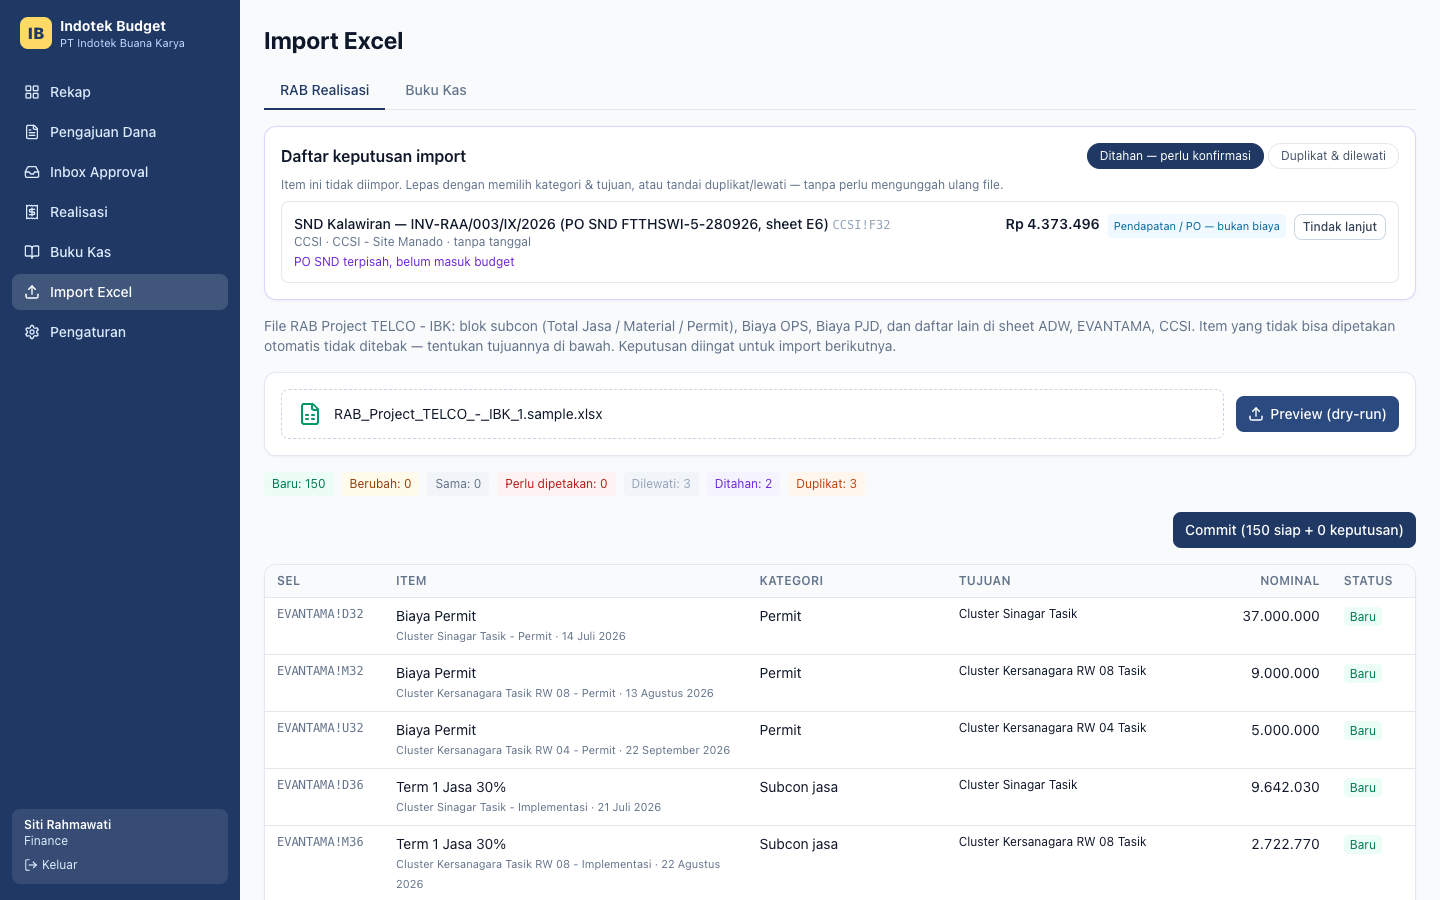
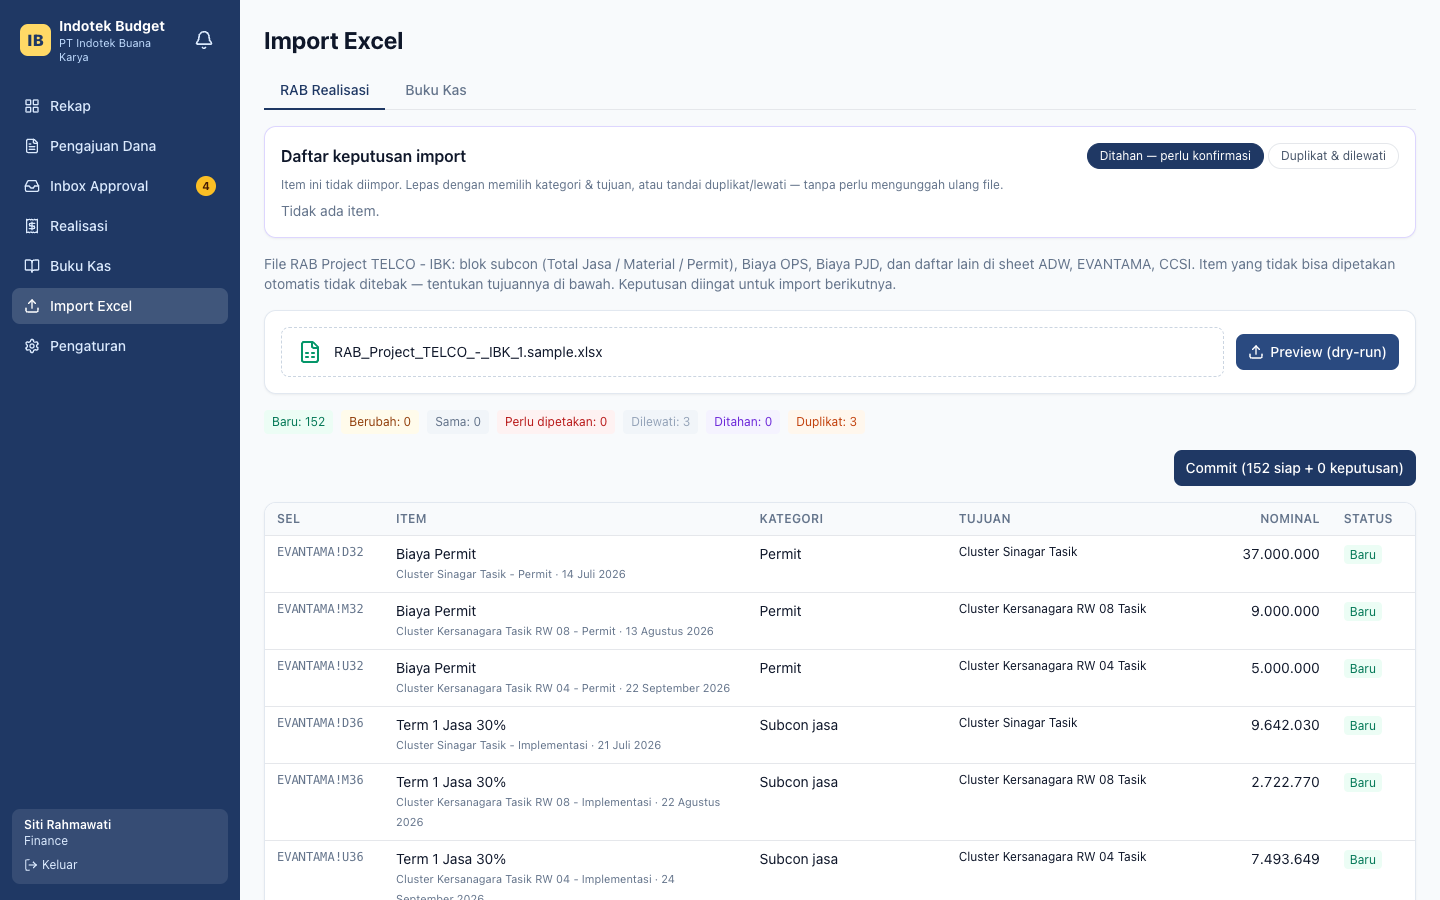
docs(2.3): ACCEPTANCE P, CHANGELOG 2.3 + laporan Rekap ulang; script import --po-adjustments

diff --git a/apps/api/scripts/import-rab.ts b/apps/api/scripts/import-rab.ts
@@ -1,5 +1,6 @@
 /* Import realisasi dari file RAB memakai aturan pemetaan default, lalu cetak laporan per project.
- * Pemakaian: npx ts-node --transpile-only scripts/import-rab.ts <file.xlsx> [--dry-run]
+ * Pemakaian: npx ts-node --transpile-only scripts/import-rab.ts <file.xlsx> [--dry-run] [--po-adjustments]
+ *   --po-adjustments : juga import baris "Deduction Termin 1 + Addwork" sebagai PO ADDWORK/DEDUCTION (preview dulu, lalu commit)
  */
 import { PrismaClient } from '@prisma/client';
 import { readFile } from 'node:fs/promises';
@@ -10,6 +11,8 @@ import { ExpenseSupportService } from '../src/realization/expense-support.servic
 import { RabImporter } from '../src/import/rab-importer';
 import { seedDefaultRabRules } from '../src/import/default-rab-rules';
 import { clusterCalcInput } from '../src/budget/budget.mapper';
+import { PoAdjustImporter } from '../src/import/po-adjust-importer';
+import { computeOverruns } from '../src/notifications/overrun';
 import type { PrismaService } from '../src/prisma/prisma.service';
 
 async function main() {
@@ -29,6 +32,19 @@ async function main() {
   const parsed = await importer.parse(await readFile(file));
   const result = dryRun ? { created: 0, updated: 0, held: 0, preview: await importer.preview(parsed) } : await importer.commit(parsed, {}, admin?.id ?? null);
   console.log(`${dryRun ? 'DRY-RUN' : 'COMMIT'}: dibuat ${result.created}, diperbarui ${result.updated}, ditahan ${result.held}`);
+
+  if (process.argv.includes('--po-adjustments')) {
+    const adj = new PoAdjustImporter(prisma, audit);
+    const pv = await adj.preview(parsed);
+    console.log(`\n=== Penyesuaian PO (Deduction Termin 1 + Addwork) — preview: ${JSON.stringify(pv.summary)}`);
+    for (const i of pv.items) console.log(`   ${i.status.padEnd(9)} ${i.key.padEnd(12)} ${i.kind.padEnd(9)} Rp ${formatAngka(i.amount).padStart(11)}  ${i.clusterName ?? `(blok tidak cocok: ${i.blockTitle})`}  [${i.source} · ${i.totalFormula}]`);
+    for (const c of pv.clusters) console.log(`   ${c.clusterName}: nilai PO implementasi Rp ${formatAngka(c.nilaiPoImplNow)} → Rp ${formatAngka(c.nilaiPoImplAfter)}`);
+    if (!dryRun) {
+      const r = await adj.commit(parsed, admin?.id ?? null);
+      console.log(`   COMMIT: PO baru ${r.created}, diperbarui ${r.updated}`);
+    }
+  }
+  const marginPermitRows: string[] = [];
   const rekap: string[] = [];
 
   for (const sheet of result.preview.sheets) {
@@ -67,7 +83,13 @@ async function main() {
     for (const r of rows.slice(0, 5)) console.log(`   ${formatPersen(r.pct.toString(), 1).padStart(7)}  ${r.name}  (Rp ${formatAngka(r.realisasi.toString())} / ${formatAngka(r.budget.toString())})`);
 
     // profit proyeksi (kalkulasi budget) vs profit realisasi (pembayaran bruto PAID − realisasi terverifikasi)
-    const proj = calcProjectTotal(clusters.map((c) => calcCluster(clusterCalcInput(c, setting))));
+    const results = clusters.map((c) => calcCluster(clusterCalcInput(c, setting)));
+    const proj = calcProjectTotal(results);
+    clusters.forEach((c, i) => {
+      if (!results[i].nilaiPoPermit.isZero() || !results[i].permit.amount.isZero()) {
+        marginPermitRows.push(`| ${sheet.projectCode} | ${c.name} | ${formatAngka(moneyStr(results[i].nilaiPoPermit))} | ${formatAngka(moneyStr(results[i].permit.amount))} | ${formatAngka(moneyStr(results[i].marginPermit))} |`);
+      }
+    });
     const payments = await prisma.clientPayment.findMany({ where: { cluster: { projectId: sheet.projectId } } });
     const p = calcRealizedProfit(
       payments.map((x) => ({ status: x.status, amount: x.amount.toString(), paidAmount: x.paidAmount?.toString() ?? null })),
@@ -75,15 +97,22 @@ async function main() {
     );
     rekap.push(
       `| ${sheet.projectCode} | ${formatAngka(moneyStr(proj.nilaiProyek))} | ${formatAngka(moneyStr(proj.profit))} | ${formatPersen(proj.margin.toString())} | ` +
-        `${formatAngka(moneyStr(p.pembayaranBruto))} | ${formatAngka(moneyStr(p.realisasiBiaya))} | ${formatAngka(moneyStr(p.profitRealisasi))} |`,
+        `${formatAngka(moneyStr(p.pembayaranBruto))} | ${formatAngka(moneyStr(p.realisasiBiaya))} | ${formatAngka(moneyStr(p.profitRealisasi))} | ${formatAngka(moneyStr(proj.marginPermit))} |`,
     );
   }
 
-  console.log(`\n=== Rekap profit proyeksi vs realisasi${retArg ? ` (preview retensiAsCost=${retArg})` : ''}`);
-  console.log('| Project | Nilai proyek | Profit proyeksi | Margin | Pembayaran klien PAID (bruto) | Realisasi biaya | Profit realisasi |');
+  const g = await settings.effective(null, ps);
+  console.log(`\n=== Rekap profit proyeksi vs realisasi (retensiAsCost=${retArg ?? g.retensiAsCost}${retArg ? ', preview' : ', setting tersimpan'})`);
+  console.log('| Project | Nilai proyek | Profit proyeksi | Margin | Pembayaran klien PAID (bruto) | Realisasi biaya | Profit realisasi | Margin permit |');
   for (const r of rekap) console.log(r);
+  console.log('\n=== Margin permit per cluster');
+  console.log('| Project | Cluster | Nilai PO permit | Biaya permit | Margin permit |');
+  for (const r of marginPermitRows) console.log(r);
+  const over = await computeOverruns(prisma);
+  console.log(`\n=== Cluster over budget (ambang Setting): ${over.length} pos`);
+  for (const o of over) console.log(`   ${o.projectCode} ${o.clusterName} — ${o.label}: Rp ${formatAngka(o.realisasi)} / ${formatAngka(o.budget)}`);
 
-  console.log('\n=== Daftar final item ditahan');
+  console.log(`\n=== Daftar final item ditahan: ${await prisma.importHeldItem.count({ where: { status: 'HELD' } })} item`);
   const heldRows = await prisma.importHeldItem.findMany({ where: { status: 'HELD' }, orderBy: [{ sheet: 'asc' }, { cell: 'asc' }] });
   for (const h of heldRows) console.log(`   ${h.sheet}!${h.cell} [${h.kind}] ${h.label} Rp ${formatAngka(h.amount.toString())} — ${h.note ?? ''}`);
   const dismissedRows = await prisma.importHeldItem.findMany({ where: { status: 'DISMISSED' }, orderBy: [{ sheet: 'asc' }, { cell: 'asc' }] });

diff --git a/docs/CHANGELOG.md b/docs/CHANGELOG.md
@@ -1,5 +1,108 @@
 # Changelog
 
+## Fase 2.3 — PO per cluster, margin permit, retensi = piutang, proteksi import, notifikasi (14 Oktober 2026)
+
+### Status verifikasi
+
+| Pemeriksaan | Hasil |
+|---|---|
+| Unit test shared | 123 lulus (baru: PO turunan, margin permit, acuan default 961.865,20, penyesuaian PO ADW) |
+| Test API (Jest + PostgreSQL) | 87 lulus (baru: `phase23.e2e-spec.ts`) |
+| Test web | 9 lulus |
+| Playwright e2e | 14 lulus |
+| `pnpm lint`, `pnpm typecheck`, `pnpm build` | bersih |
+| DB Docker | patch 2.3 terpasang; import RAB ulang 0 baru / 0 berubah; 8 PO penyesuaian ADW; **item ditahan = 0** |
+
+### Keputusan yang diterapkan
+
+Patch data sekali jalan **`2.3-po-permit-semarang-fee-marketing`** (DataPatch, dipanggil dari seed, semua perubahan diaudit). Angka acuan di ACCEPTANCE bagian P.
+
+1. **Margin permit** per cluster = nilaiPoPermit − permitCost − pajak atas permit − interest atas permitCost. Tampil di ringkasan cluster, grid project, dan kolom Rekap (merah bila negatif). Rumus pajak/interest utama tidak berubah.
+2. **Permit Semarang** → diganti keputusan 9 (lihat bawah).
+3. **Model `ClusterPo`** (IMPLEMENTASI / PERMIT / SND / ADDWORK / DEDUCTION, no. & tanggal PO, nilai, biaya pass-through, catatan).
+   - nilaiPoImpl, nilaiPoPermit, permitCost sekarang **diturunkan** dari PO dan read-only di form/grid (PATCH langsung → 400).
+   - Migrasi: setiap cluster mendapat PO IMPLEMENTASI (+ PERMIT bila ada) dari nilai lama; nomor PO diambil dari info cluster; termin lama dikaitkan ke PO-nya.
+   - SND Kalawiran: PO SND FTTHSWI-5-280926 Rp 4.373.496 (pass-through 0), termin SND 1 × 100% Unpaid (Ditagih, INV-RAA/003/IX/2026). Item ditahan → RELEASED.
+   - ADW "Deduction Termin 1 + Addwork": import dry-run → commit, 8 PO (tanda dari rumus baris total).
+   - Termin klien digenerate **per PO**: IMPLEMENTASI/PERMIT dari template client; SND/ADDWORK/DEDUCTION 1 × 100% manual.
+4. **Tanggal invoice tidak pernah ditebak.** Termin yang sudah ditagih / punya no. invoice / manual tanpa tanggal mendapat badge "tanggal invoice belum diisi" di tab Termin Klien. Termin tersebut juga dihitung di inbox FINANCE (badge kuning + daftar).
+5. **Default resmi `retensiAsCost = false`** di seed dan `GLOBAL_DEFAULTS` (instalasi baru). Acuan A–F tetap dites dengan `true` eksplisit. Acuan baru: WANASARI RW 01 profit **961.865,20**.
+6. **Referensi tagihan RAB** disimpan saat import RAB dan tampil di tab Termin Klien. Tombol **"Terapkan ke termin…"**: FINANCE memilih termin dan mengisi bruto; paidAmount = net referensi; potongan otomatis menjadi expense PAJAK. Tidak ada penerapan otomatis.
+7. **Proteksi import budget.**
+   - Field cluster/baris budget yang diedit di aplikasi (termasuk lewat tabel PO) ditandai `FieldOverride` (siapa/kapan).
+   - Import Excel melewati field tersebut. Preview menampilkannya sebagai "dilindungi — diedit di aplikasi" (status cluster **Dilindungi**).
+   - Field bisa ditimpa per field lewat checkbox, khusus ADMIN, dengan alasan wajib (tercatat di audit; tanda dilepas).
+8. **Over budget.**
+   - Notifikasi in-app untuk PM & DIREKTUR saat pos/cluster melewati `Setting.realisasiOverPct` (default 100%).
+   - Satu notifikasi per pos; dilepas bila kembali di bawah ambang.
+   - Lonceng notifikasi di header; daftar "Cluster over budget" di Rekap.
+9. **Permit Semarang pass-through.**
+   - PO PERMIT Rp 36.000.000, pass-through Rp 36.000.000, catatan "konfirmasi user 14 Okt 2026".
+   - J31 dilepas → realisasi PERMIT 100% Padangsari.
+   - Termin permit manual 1 × 100% UNBILLED, tanggal invoice kosong (badge).
+10. **CCSI C58 "Wenda Manado Sulut" Rp 4.000.000 = fee marketing.**
+    - Kategori baru **MARKETING_FEE** → pos MARKETING (CategoryMapping).
+    - Dialokasikan PRO_RATA_PO ke Kalawiran & Karondoran, catatan "fee marketing — konfirmasi user 14 Okt 2026".
+
+### Yang dibuat
+
+- **Migrasi `20261014090000_phase23_po_override_notif`:**
+  - enum PoKind; TerminKind + SND/ADDWORK/DEDUCTION; ExpenseCategory + MARKETING_FEE.
+  - Tabel ClusterPo, FieldOverride, Notification, ClientInvoiceRef.
+  - ClientPayment.poId/fromTemplate; unique `[poId, termin]`; `Setting.realisasiOverPct`.
+- **Shared:** `derivePoTotals`, `poAmountError`, `parsePoNumbers`, `calcPermitMargin` (+ `marginPermit` di DTO/total), `parsePoAdjustments` (parser RAB), skema Zod PO & terapkan referensi.
+- **API:**
+  - `GET/POST /clusters/:id/pos`, `PATCH/DELETE /clusters/pos/:poId` (ADMIN/PM).
+  - `POST /client-payments/:id/apply-reference` (ADMIN/FINANCE).
+  - `POST /import/po-adjustments-xlsx` (dry-run/commit; ADMIN/PM).
+  - `POST /import/budget-xlsx` field `force` + `reason` (ADMIN).
+  - `GET /notifications`, `POST /notifications/:id/read`, `POST /notifications/read-all`, `GET /inbox/missing-invoice-dates`.
+  - Rekap: `overBudget`.
+- **Web:**
+  - Tabel PO di detail cluster.
+  - Tab Termin Klien dikelompokkan per PO, dengan badge, referensi RAB, dan dialog terapkan.
+  - Lonceng notifikasi, bagian inbox FINANCE, kolom margin permit & daftar over budget di Rekap.
+  - Status "Dilindungi" + checkbox Timpa di import budget, tab import **Penyesuaian PO**, dan ambang notifikasi di Pengaturan.
+- **Script** `scripts/import-rab.ts --po-adjustments`: preview + commit penyesuaian PO, tabel margin permit, daftar over budget, jumlah item ditahan.
+
+### Laporan Rekap ulang (DB Docker, default baru: retensi = piutang, interest 10%)
+
+| Project | Nilai proyek | Profit proyeksi | Margin | Pembayaran klien PAID (bruto) | Realisasi biaya | Profit realisasi | Margin permit |
+|---|---|---|---|---|---|---|---|
+| ADW | 712.513.400 | **67.702.754** | 9,50% | 0 | 375.453.286 | −375.453.286 | 0 |
+| EVANTAMA | 236.454.823 | **7.640.924** | 3,23% | 0 | 141.175.619 | −141.175.619 | **−6.451.500** |
+| CCSI | 198.835.655 | **10.332.449** | 5,20% | 0 | 128.413.698 | −128.413.698 | **−2.606.761** |
+
+- ADW turun dari 716.165.700 karena 8 PO penyesuaian (Σ −3.652.300). CCSI naik karena SND 4.373.496 dan permit Semarang 36.000.000.
+- Realisasi CCSI naik 40.000.000 (J31 permit Semarang 36.000.000 + C58 fee marketing 4.000.000).
+- Profit realisasi masih negatif karena belum ada termin klien berstatus Dibayar di DB.
+- Pembanding dengan retensiAsCost = true: ADW −10.673.720, EVANTAMA −12.759.106, CCSI −4.635.620.
+
+**Margin permit per cluster:**
+
+| Cluster | PO permit | Biaya permit | Margin permit |
+|---|---|---|---|
+| Sinagar Tasik | 37.000.000 | 37.000.000 | −4.680.500 |
+| Kersanagara RW 08 | 9.000.000 | 9.000.000 | −1.138.500 |
+| Kersanagara RW 04 | 5.000.000 | 5.000.000 | −632.500 |
+| Kalawiran (Manado) | 14.586.296 (permit + SND) | 10.035.446 | +3.182.648 |
+| Karondoran (Manado) | 12.176.000 | 11.964.554 | −1.289.409 |
+| **Padangsari RW 12 & 13 (Semarang)** | **36.000.000** | **36.000.000** | **−4.500.000** |
+
+**Jumlah item ditahan: 0.** Duplikat/dilewati tetap 6 (ADW C78/C79/C80, EVANTAMA G145/G147/G148), semuanya bisa dibatalkan.
+
+### Yang perlu direview
+
+1. **Setting retensi di DB Docker masih `true`.** Admin mengubahnya ke false pada 13 Okt 17:51 UTC, lalu kembali ke true pada 17:54 UTC. Default baru hanya berlaku untuk instalasi baru, dan setting yang dibuat user tidak saya ubah; laporan di atas memakai preview false. Perlu diubah ke false di Docker/produksi?
+2. **TEPAS RW 05 NGAWI-REV:** nilai PO implementasi cluster 33.655.100 (kolom Implementation), sedangkan kolom Realisasi sheet ADW 33.650.100. Setelah penyesuaian hasilnya 33.322.600 vs AL11 33.317.600 (selisih 5.000). PO dasar mana yang benar?
+3. **Termin ADDWORK/DEDUCTION ADW dibuat sebagai termin 1 × 100% terpisah** (8 termin, termasuk deduction bernilai negatif). Akibatnya inbox FINANCE berisi 12 termin tanpa tanggal invoice: 6 deduction, 2 addwork, 3 permit, 1 SND. Bila deduction seharusnya memotong termin 1 implementasi, perlu aturan lain.
+4. **Referensi tagihan RAB tidak cocok dengan termin template.** Contoh: Sinagar permit I2628-00139 net 20.044.750 > termin permit 1 bruto 18.500.000 (50% × 37 jt); Sinagar impl I2628-00142 net 18.425.090 vs termin 1 21.788.135. Belum ada yang diterapkan. 6 dari 12 referensi berlaku di tingkat project (blok RAB tidak cocok dengan satu cluster).
+5. **Notifikasi over budget awal: 31 pos → 62 notifikasi** (PM + DIREKTUR). Sebagian besar pos Allowance ADW (alokasi PJD per tanggal implementasi) dan pos kecil CCSI Manado (tiket, OPS, motor, marketing termasuk fee C58). Perlu ambang lain, atau notifikasi hanya untuk total cluster?
+6. **Margin permit Kalawiran positif (+3.182.648)** karena SND 4.373.496 ikut nilaiPoPermit dengan pass-through 0, sesuai rumus. Konfirmasi SND memang dihitung di margin permit.
+7. **Pembanding import budget** menerima nilai PO dasar (file asli) **atau** total turunan termasuk addwork/SND (file hasil export). Dengan begitu round-trip export → import tetap "Sama".
+8. **Redis ditunda ke fase deployment.** Rate limit login dan pemindaian over budget masih in-process (cocok untuk 1 instance API).
+9. Info pendukung di snapshot pengajuan (infoBunga/infoProfit) mengikuti setting efektif. Test FPD sekarang memakai default (770.816,80 / 961.865,20). Acuan A dengan retensi = biaya dites di kalkulasi budget.
+
 ## Fase 2.2 — Keputusan review import & penyelesaian pemetaan (14 Oktober 2026)
 
 ### Status verifikasi

diff --git a/docs/ACCEPTANCE.md b/docs/ACCEPTANCE.md
@@ -217,3 +217,61 @@ Dites di `apps/api/test/realization.e2e-spec.ts` dan `budget.e2e-spec.ts`.
 Total CCSI di rekap (acuan C + permit Manado), dengan interest 10% dan retensiAsCost = true:
 nilaiProyek 136.073.359 + 22.388.800 = **158.462.159**. Profit −1.871.953 − (22.000.000 + pajak 559.720 + interest
 2.255.972 − 22.388.800) = **−4.298.845**. Acuan C level parser (file Excel) tidak berubah.
+
+## P. Fase 2.3 — PO per cluster, margin permit, default retensi = piutang
+
+Dites di `packages/shared/src/calc/po.test.ts`, `packages/shared/test/acceptance-rab.test.ts`,
+`apps/api/test/{budget,realization,phase23}.e2e-spec.ts` dan `e2e/phase{1,2}.spec.ts`.
+
+**Default baru `retensiAsCost = false` (retensi = piutang).** Acuan A–F tetap dites dengan `retensiAsCost = true`
+eksplisit (shared: fixture; API: `?retensiAsCost=true`; e2e: preview toggle).
+
+| Acuan | Nilai |
+|---|---|
+| WANASARI RW 01, default (retensi = piutang) | danaInvestor 7.708.168 · interest 770.816,80 · **profit 961.865,20** |
+| WANASARI RW 01, retensiAsCost = true | profit −76.628,30 (acuan A tidak berubah) |
+
+**Nilai PO diturunkan dari tabel PO** (rumus budget tidak berubah):
+`nilaiPoImpl = Σ IMPLEMENTASI + ADDWORK + DEDUCTION`, `nilaiPoPermit = Σ PERMIT + SND`, `permitCost = Σ passThroughCost`.
+Contoh: IMPL 33.650.100 + ADDWORK 398.300 + DEDUCTION −730.800 = **33.317.600**; PERMIT 10.212.800 + SND 4.373.496 =
+**14.586.296**; pass-through 10.035.446,29. DEDUCTION > 0 atau jenis lain < 0 ditolak.
+
+**Margin permit** = nilaiPoPermit − permitCost − pajakRate × nilaiPoPermit − interestRate × permitCost
+
+| Cluster | PO permit | Biaya permit | Pajak | Interest | Margin permit |
+|---|---|---|---|---|---|
+| Sinagar (pajak 2,65%) | 37.000.000 | 37.000.000 | 980.500 | 3.700.000 | **−4.680.500** |
+| Padangsari Semarang (pajak 2,5%) | 36.000.000 | 36.000.000 | 900.000 | 3.600.000 | **−4.500.000** |
+| Tanpa permit | 0 | 0 | 0 | 0 | 0 |
+
+**Penyesuaian PO ADW** (baris 10 "Deduction Termin 1 + Addwork", kolom Realisasi). Tanda dari rumus baris 11;
+sel berumus konstanta dipecah per suku.
+
+| Sel | Isi | Rumus baris 11 | PO |
+|---|---|---|---|
+| M10 | −755.900 | `M9+M10` | DEDUCTION −755.900 |
+| Z10 | 1.058.900 | `Z9-Z10` | DEDUCTION −1.058.900 |
+| AD10 | −1.081.700 | `AD9+AD10` | DEDUCTION −1.081.700 |
+| AL10 | `=398300-730800` | `AL9+AL10` | ADDWORK 398.300 + DEDUCTION −730.800 |
+| AP10 | `=522700-736000` | `AP9+AP10` | ADDWORK 522.700 + DEDUCTION −736.000 |
+| BN10 | 210.000 | `BN9-BN10` | DEDUCTION −210.000 |
+| Σ | | | **−3.652.300** |
+
+**Total CCSI (retensiAsCost = true, interest 10%)** = acuan O + SND Kalawiran + permit Semarang:
+
+- nilaiProyek 158.462.159 + 4.373.496 + 36.000.000 = **198.835.655**
+- SND: profit + 4.373.496 × (1 − 2,5% − 10% × 2,5%) = +4.253.224,86
+- Semarang pass-through: profit −(pajak 900.000 + interest 10% × 36.900.000) = −4.590.000
+- profit −4.298.845 + 4.253.224,86 − 4.590.000 = **−4.635.620,14**
+
+**Keputusan 2.3 (patch `2.3-po-permit-semarang-fee-marketing`)**
+
+| Keputusan | Hasil yang dites |
+|---|---|
+| SND Kalawiran | PO SND FTTHSWI-5-280926 4.373.496, pass-through 0; termin SND 1 × 100% INVOICED (INV-RAA/003/IX/2026), tanggal invoice kosong → badge; item ditahan → RELEASED (`PO_SND`) |
+| Permit Semarang | PO PERMIT 36.000.000 / pass-through 36.000.000, catatan "konfirmasi user 14 Okt 2026"; J31 → realisasi PERMIT 36.000.000 ke Padangsari; termin permit UNBILLED, tanggal kosong → badge |
+| CCSI C58 "Wenda Manado Sulut" 4.000.000 | kategori MARKETING_FEE → pos MARKETING, PRO_RATA_PO Kalawiran & Karondoran, catatan "fee marketing — konfirmasi user 14 Okt 2026" |
+| Daftar ditahan | **0 item** setelah import |
+| Import budget (file contoh) | permit Manado & Semarang = **Dilindungi** (diedit di aplikasi); cluster lain Sama; timpa per field hanya ADMIN + alasan |
+| Over budget | realisasi TICKET 250.000 pada budget 0 → notifikasi PM & DIREKTUR sekali (kunci `OVER:{cluster}:{pos}`), muncul di Rekap; expense dihapus → notifikasi dilepas |
+| Referensi tagihan RAB | diterapkan manual: bruto 1.000.000, net 980.000 → PAID, potongan 20.000 jadi expense PAJAK; tidak bisa diterapkan dua kali |
